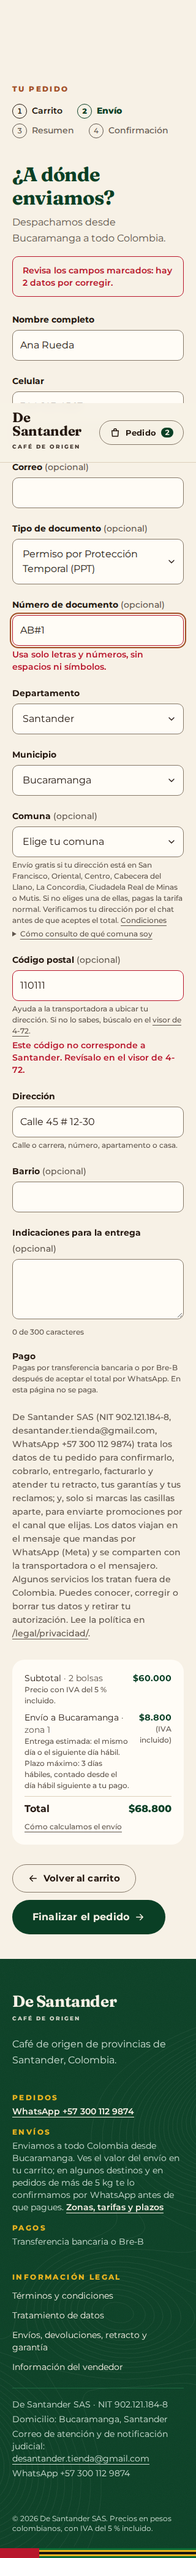
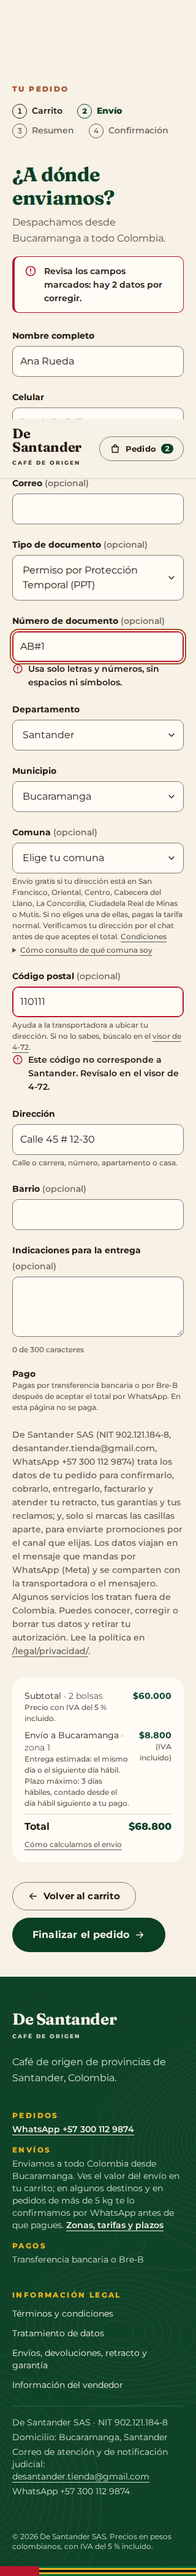
docs(qa): ronda A2 y M9: QA-021, capturas regeneradas

Changed region(s): [[0.0625, 0.0312, 0.9375, 0.9681], [0.8438, 0.4372, 0.875, 0.4684]]

diff --git a/docs/qa/2026-11-18-ux-a2-m9.md b/docs/qa/2026-11-18-ux-a2-m9.md
@@ -1,0 +1,170 @@
+# Ronda QA — Auditoría UX A2 (ficha a 360 px) y M9 (errores en tinta con ícono) — 2026-11-18
+
+Rama `feat/ux-auditoria`, HEAD `832f64d`; commits verificados `8c7b943` (A2) y `0a23225` (M9). Chromium (Playwright), Linux.
+Especificación: `docs/diseno/2026-11-18-ux-auditoria-alta.md` (A2, M9 y «Entrega para qa-pruebas»).
+
+Builds auxiliares, fuera del repositorio (scratchpad de la sesión, nada commiteado):
+- `ba6e063` (justo antes de A2) y `8162ccf` (`main`), construidos con `git archive`, para comparar el escritorio.
+- Copia del árbol con `data/catalogo.csv` modificado (`cafe-arreboles` agotados `250|500`, `cafe-casa-martinez` agotados `500`), para la ficha agotada. El CSV del repositorio no se tocó.
+- Puertos: `out/` en 4174 (configuración de Playwright temporal, para no chocar con el 4173 del worktree de QA-019), copia agotada 4175, `ba6e063` 4176, `8162ccf` 4177.
+
+## Comandos ejecutados y resultado
+
+| Comando | Resultado |
+|---|---|
+| `npm run lint` | pasa (0 errores) |
+| `npm run typecheck` / `npx tsc --noEmit` | pasa |
+| `npm test` | 551 pasan, 1 falla: `tools/fotos-responsivas.test.ts` (QA-020, esperado, sin commitear a propósito) |
+| `npm run build` | pasa; postbuild: «4 foto(s) original(es) quitada(s) (5.5 MB)» |
+| `grep -rn "text-danger" src/` | vacío |
+| `npx playwright test` (suite completa contra `out/`, con los tres servidores auxiliares) | 264 pasan, 21 omitidas (basePath y fechas), 3 fallan: 2 de QA-019 (esperado) y 1 de QA-021 (nuevo) |
+| `e2e/qa-2026-11-18-ux-a2-m9.spec.ts --repeat-each 3` | 62 de 66 pasan; fallan las 3 repeticiones de QA-021 y 1 de «error de líneas» por una carrera de la prueba (axe midió el color a mitad de la transición del botón al forzar el tema oscuro; prueba corregida con una espera de 400 ms; después, 30/30 con `--repeat-each 5`) |
+| `e2e/accesibilidad.spec.ts --repeat-each 10` (incluye :74, movimiento reducido, que se había reportado inestable) | 70/70 pasan |
+
+Ajuste de prueba (no es defecto de producto): en `e2e/qa-2026-11-18-fotos-responsivas.spec.ts` el selector de la foto principal (`.aspect-[3/4]`) dejó de coincidir porque A2 cambió la caja a `aspect-[4/3] lg:aspect-[3/4]`. Ahora se ubica por estructura (`main article .grid > div > figure picture img`). Con eso las 4 pruebas que fallaban (prioridad, variante a 390 y 1440, capturas) vuelven a pasar; ese archivo solo falla en las 2 pruebas de QA-019.
+
+**Veredicto: APTO CON OBSERVACIONES.** A2 cumple todo lo que se pidió medir. M9 cumple el contraste y axe; queda un defecto Media (QA-021: la casilla enfocada no se distingue de la casilla con error). Ningún defecto Bloqueante ni Alta.
+
+## Métricas
+
+### A2: ficha a 360 px
+
+Orden visual (y en px de documento, a 360 × 740):
+
+| Ficha | Antetítulo | H1 | Foto | Compra | Perfil | Mapa |
+|---|---|---|---|---|---|---|
+| Casa Martínez | 157 | 201 | 393 | 657 | 1.225 | 2.028 |
+| Arreboles | 157 | 185 | 335 | 599 | 1.167 | 1.901 |
+
+- El orden del DOM es h1 → foto → formulario → mapa, igual que el visual (WCAG 1.3.2).
+- La foto es 4:3 con tope de 55vh (≤ 407 px a 740 de alto).
+- Orden de Tab a 360 px, desde las migas: radios de presentación → radios de tamaño → «Una bolsa más» → «Agregar al pedido» → «Ver plazos» → «¿Qué significa cada dato?». La posición vertical crece en cada paso, así que el Tab sigue el orden visual.
+
+A 360 × 780 (y en px de documento):
+
+| Ficha | H1 | «Agregar al pedido» | Lo que medió el dev |
+|---|---|---|---|
+| Casa Martínez | 201–285 | 1.012–1.068 | H1 201, botón 1.012 |
+| Arreboles | 185–227 | 954–1.010 | H1 185, botón 954 |
+
+Coincide con lo que midió el dev. El H1 se ve sin desplazar y el botón termina antes de 2 × 780 px, es decir, aparece tras menos de una pantalla de desplazamiento.
+
+**Escritorio a 1.280 px:**
+- Contra `ba6e063`: la captura de página completa es idéntica byte a byte en las dos fichas.
+- Contra `main` `8162ccf`: las cajas son iguales con ±0 px: antetítulo, H1, foto (64,181, 518 × 691), compra (646,377), perfil, mapa (64,1100) y el alto de la página. No hay comparación píxel a píxel con `main` porque A3 cambió el formato de las fotos.
+
+**Límite `lg`:**
+- A 1.023 px hay una sola columna y la foto va debajo del H1.
+- A 1.024 px hay dos columnas: la foto 3:4 a la izquierda, a la altura del H1; la compra alineada con el H1; el mapa bajo la foto, a 32 px o más.
+- Sin desbordamiento horizontal.
+
+**LCP en móvil** (412 × 823, DPR 1,75, Slow 4G 150 ms / 1,6 Mb/s, CPU 4×, caché deshabilitada; 3 corridas):
+
+| Ficha | LCP (ms) | Elemento LCP |
+|---|---|---|
+| Casa Martínez | 1.688 / 1.704 / 1.692 / 1.684 | `1-800.avif` |
+| Arreboles | 1.656 / 1.680 / 1.692 / 1.684 | `1-800.avif` |
+
+Meta < 2.500 ms: cumple. La foto principal conserva `loading="eager"` y `fetchpriority="high"`.
+
+**CLS:**
+- Casa Martínez: 0.
+- Arreboles: 0,0003.
+- `qa-2026-11-18-fotos-responsivas` (360 y 1440, con desplazamiento hasta las fotos diferidas): < 0,01.
+
+**axe** (WCAG 2.0/2.1/2.2 A y AA), fichas a 360 y 1.280 px: sin violaciones serias ni críticas.
+
+### M9: contraste medido sobre colores computados
+
+| Elemento | Tema | Texto | Ícono | Borde |
+|---|---|---|---|---|
+| `.ds-error` (campo y casilla) | claro | #24170f sobre #f7f1e6 = 15,51:1 | #b8162c = 5,86:1 | — |
+| `.ds-error` | oscuro | #f7f1e6 sobre #0a3f25 = 10,67:1 | #ffb3b9 = 7,08:1 | — |
+| `.ds-alerta` (resumen de errores de Envío y error de líneas) | claro | 17,03:1 (sobre #fffcf6) | 6,43:1 | 5,86:1 (4 px izquierda) |
+| `.ds-alerta` | oscuro | 8,01:1 (sobre #11542f) | 5,32:1 | 7,08:1 |
+| Campo inválido (5 campos, incluidos los `select` superpuestos) | claro | — | — | borde #b8162c + `ring-inset` grana ≥ 3:1 contra #fffcf6 |
+| Casilla inválida sin foco | claro / oscuro | — | — | contorno 2 px sólido grana ≥ 3:1 |
+| Pastilla «Agotado» (tarjeta del catálogo, copia con CSV agotado) | claro | 17,03:1 | 17,03:1 (tinta) | #857868 = 4,20:1 |
+| Pastilla «Agotado» | oscuro | 8,01:1 | 8,01:1 | #8bbf9e = 4,31:1 |
+
+El texto computado es igual a `--ink` y el ícono igual a `--danger` en todos los mensajes de error.
+
+**axe** sin violaciones serias ni críticas:
+- `/pedido/` paso Envío con errores de campo, a 360 y 1.280, en claro y oscuro.
+- Resumen con errores de las dos casillas, a 360 y 1.280, en claro y oscuro.
+- Resumen con la caja de error de líneas.
+- Ficha agotada, ficha con un tamaño agotado y `/cafes/` con tarjeta agotada, a 360 y 1.280.
+
+En tema oscuro, axe se limita a `main`, porque el encabezado tiene su propio `data-theme="light"` y forzar el tema en `<html>` daba un falso positivo en la marca.
+
+**Ficha agotada:**
+- Queda solo el botón «Agotado» deshabilitado, sin `.ds-badge--soldout` en el bloque de compra. «Agotado» aparece en el botón y en las píldoras de tamaño.
+- La pastilla de la tarjeta lleva `IconoNoDisponible`.
+
+**Error de líneas:** no se puede provocar desde la interfaz. `carrito-provider.tsx` (`esValida`) descarta al cargar las líneas que el catálogo ya no vende, y el catálogo es estático. Se midió el marcado exacto de `flujo-pedido.tsx:366-373` insertado en el resumen real.
+
+**Foco en casilla con error:** no se confirma lo que dice el encargo («el contorno grana reemplaza el anillo de foco»). Pasa lo contrario: `:focus-visible` en `globals.css` no está en ninguna capa y gana a la utilidad `aria-[invalid=true]:outline-danger`, que sí está en una capa. Con foco, el contorno pasa a ser el de foco (#a24f27, 2 px, offset 2 px); sin foco, el de error (#b8162c, 2 px, offset 2 px). Ver QA-021.
+
+Capturas en `docs/qa/capturas/`:
+- `2026-11-18-m9-envio-errores-{light,dark}-360.png`
+- `2026-11-18-m9-casillas-{light,dark}-360.png`
+- `2026-11-18-m9-foco-casillas-360.png`, `2026-11-18-m9-foco-casilla-ter.png`
+- `2026-11-18-m9-lineas-{light,dark}.png`
+- `2026-11-18-m9-ficha-agotada-360.png`, `2026-11-18-m9-tarjeta-agotada-360.png`
+- `2026-11-18-ficha-360.png` (regenerada con A2)
+
+Las capturas de otras pruebas que reflejan M9 (`documento-postal-errores-*`, `qa-005-departamento-360`) también se regeneraron.
+
+## Defectos
+
+| ID | Severidad | Área | Título | Responsable | Estado |
+|---|---|---|---|---|---|
+| QA-021 | Media | Accesibilidad / pedido | La casilla con error y foco se ve igual que la casilla con error sin foco | desarrollador-fullstack (con disenador-marca) | Abierto |
+
+### QA-021 — La casilla con error y foco se ve igual que la casilla con error sin foco
+- Severidad: Media. Hay indicador de foco, pero con las dos casillas obligatorias en error no se puede saber cuál tiene el foco (WCAG 2.4.7; en la práctica, 1.4.11).
+- Entorno: Chromium, 360 × 740 (igual a 1.280), rama `feat/ux-auditoria`, commit `0a23225`.
+- Pasos para reproducir:
+  1. Carrito con un café; Envío completo; «Finalizar el pedido».
+  2. En el resumen, pulsar «Enviar por WhatsApp» sin marcar las casillas. El foco va a «términos» y salen los dos errores.
+  3. Navegar con Tab o Shift+Tab entre las casillas.
+- Resultado esperado: la casilla enfocada se distingue claramente de la casilla con error sin foco. Si el contorno de error y el de foco comparten forma (2 px, offset 2 px), sus colores deben contrastar al menos 3:1 entre sí; si no, deben tener forma distinta.
+- Resultado obtenido:
+  - Casilla con foco: `outline: 2px solid rgb(162,79,39)`, offset 2 px (`--focus`, chicamocha).
+  - Casilla con error sin foco: `outline: 2px solid rgb(184,22,44)`, offset 2 px (`--danger`).
+  - Contraste entre los dos estados: 1,16:1. Las dos casillas se ven iguales en la captura.
+  - El contorno grana de error imita un anillo de foco. Con foco, ese contorno desaparece (gana el `:focus-visible` sin capa de `globals.css`).
+- Evidencia:
+  - Prueba `e2e/qa-2026-11-18-ux-a2-m9.spec.ts`, «foco en una casilla con error: se distingue de la casilla con error sin foco (≥ 3:1 entre estados)». Falla con `foco rgb(162, 79, 39) vs error rgb(184, 22, 44): 1.16:1, misma forma`.
+  - Capturas `docs/qa/capturas/2026-11-18-m9-foco-casillas-360.png` y `2026-11-18-m9-foco-casilla-ter.png`.
+  - Traza en `test-results/` de la corrida (retain-on-failure).
+- Sugerencia (decide disenador-marca): marcar el error con algo que no sea un contorno separado. Por ejemplo, un `box-shadow` grana pegado a la casilla (sin offset) o el borde de la casilla, y dejar el contorno con offset solo para el foco. Si se quiere conservar los dos, el foco debe poder convivir con la marca de error en lugar de reemplazarla.
+- Responsable sugerido: desarrollador-fullstack (especificación de disenador-marca).
+
+## Observaciones (no son defectos de esta ronda)
+
+1. **Error de líneas inalcanzable desde la interfaz.** La caja `.ds-alerta` de líneas solo puede salir si `prepararPedido` rechaza una línea, pero el proveedor del carrito ya depura las líneas no válidas al cargar. Es una defensa en profundidad correcta; se probó insertando su marcado.
+2. **Fila 5 de M9 (`tabIndex={-1}` y «Editar el pedido» en la caja de líneas)** no está aplicada. La especificación la ata a A1, que sigue bloqueado por LEG-171. Se revisa con A1.
+3. **Ficha totalmente agotada (copia de prueba).**
+   - La píldora «250 g · Agotado» queda seleccionada (relleno monte con `opacity-50`).
+   - El selector de cantidad sigue activo y el precio sigue visible junto al botón «Agotado».
+   - El `opacity-50` de las píldoras agotadas ya figura en la especificación como observación baja fuera de M9 (`bloque-compra.tsx:17`).
+   - Es comportamiento anterior a M9. Se deja para disenador-marca.
+4. **Cercanía de `--focus` (#a24f27) y `--danger` (#b8162c) en tema claro.** Es la causa de fondo de QA-021. Cualquier indicador grana con forma de anillo se confunde con el foco.
+
+## Estado de defectos anteriores
+
+- QA-019: según la coordinación, está corregido en `fix/qa-019` (6024cd1, worktree aparte), pendiente de verificación y aún no integrado en esta rama. No se verificó en esta ronda: en `feat/ux-auditoria` sus 2 pruebas siguen fallando, como se esperaba.
+- QA-020: abierto (la prueba de vitest sigue fallando, como se esperaba).
+
+## Paridad v1
+
+Sin cambios de función respecto a la ronda anterior. A2 y M9 son de presentación y no quitan ni agregan funciones del inventario v1.
+
+## Cobertura
+
+Nueva: `e2e/qa-2026-11-18-ux-a2-m9.spec.ts`, 22 pruebas:
+- A2: orden visual y del DOM, orden de Tab, medidas a 360 × 780, límite `lg`, comparación a 1.280 px con `ba6e063` y `main`, LCP/CLS en móvil, axe.
+- M9: `grep text-danger`, contraste y axe en Envío, casillas y líneas, en claro y oscuro, a 360 y 1.280; foco en casilla con error (QA-021); ficha y tarjeta agotadas.
+
+Las pruebas de comparación y de ficha agotada se omiten sin `E2E_BASE_URL`, `E2E_MAIN_URL` o `E2E_AGOTADO_URL`. `src/domain/` no cambió en estos commits.
